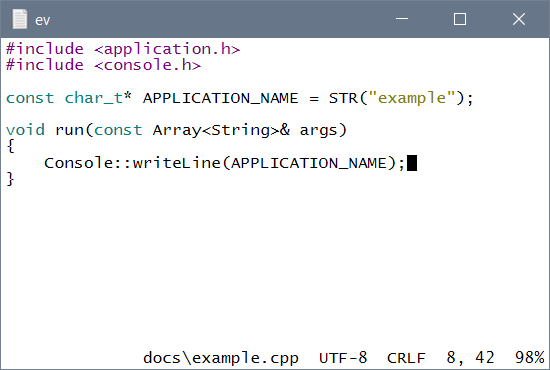
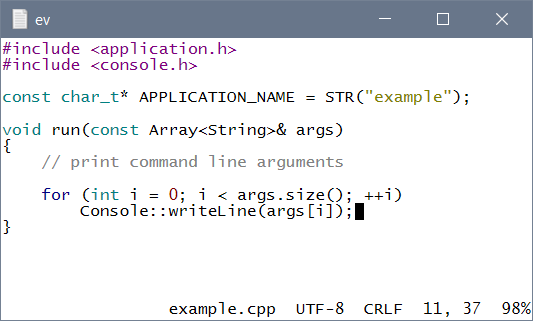
updated webpage, ranamed tab_size

diff --git a/docs/index.html b/docs/index.html
@@ -154,6 +154,24 @@ any character can be used as string separator instead of space</p>
 
 <p>o filename - open file</p>
 
+<h3>Configuration file</h3>
+
+<p>The editor reads a configuration file from two locations if it exists. The first location is the user's personal directory (/home/user or C:\Users\User). The second location is the current directory. Configuration settings from current directory take precedence. That allows you to specify project specific setting like build commands. The configuration file name is .ev.cfg on UNIX and ev.cfg on Windows. The format of the file is setting-name=setting-value, one setting per line.</p>
+
+<p>Supported settings:<table>
+<tr><td style="width: 120px">setting</td><td>values</td><td>defailt</td><td>descriptiom</td></tr>
+<tr><td>bright_background</td><td>true/false</td><td>true</td><td>changes color schme to look nice on terminals with dark or bright background</td></tr>
+<tr><td>trim_shitespace</td><td>true/false</td><td>true</td><td>trim trailing whitespace on save</td></tr>
+<tr><td>indent_size</td><td>number</td><td>4</td><td>number of spaces to indent lines</td></tr>
+<tr><td>gui_columns</td><td>number</td><td>120</td><td>number of columns in GUI mode<td></td></tr>
+<tr><td>gui_lines</td><td>number</td><td>60</td><td>number of lines in GUI mode<td></td></tr>
+<tr><td>gui_font_size</td><td>number</td><td>13</td><td>font size in GUI mode<td></td></tr>
+<tr><td>gui_font_name</td><td>string</td><td>platform specific</td><td>font name in GUI mode<td></td></tr>
+<tr><td>build_command</td><td>string</td><td>make</td><td>default build command<td></td></tr>
+<tr><td>run_command</td><td>string</td><td>make run</td><td>default run command<td></td></tr>
+<tr><td>clean_command</td><td>string</td><td>make clean</td><td>default clean command<td></td></tr>
+</table></p>
+
 <h3>Autocomplete</h3>
 
 <p>Autocomplete works by scanning for all identifiers in open documents and it lets you complete words as you type by pressing Tab key. The list of autocomplete suggestions can be refreshed by saving documents or by pressing alt+'. Completetion works best with at least two starting letters. When you press Tab the current suggestion is inserted into the text but the cursor remains after the last letter typed. If there're letters to the right of the cursor, the inserted word overwrites them.</p>
@@ -164,10 +182,11 @@ any character can be used as string separator instead of space</p>
 
 <h3>Syntax highlighting</h3>
 
-<p>Languages for which syntax highlighting is currently supported: C, C++, XML, HTML and UNIX shell scripts. ev by default assumes bright screen background and uses darker colors for syntax highlighting to improve contrast. To override this you can use --dark command line option.</p>
+<p>Languages for which syntax highlighting is currently supported: C, C++, XML, HTML and UNIX shell scripts. ev by default assumes bright screen background and uses darker colors for syntax highlighting to improve contrast. You can overridie that with bright_background setting in the configuration file.</p>
 
 <h3>Building the project</h3>
-<p>By default ev executes 'make' on UNIX systems and 'nmake.exe' on Windows. Makefile msut contain three targets named build, run and clean. This can be overriden by setting EV_BUILD_CMD, EV_RUN_CMD and EV_CLEAN_CMD environment variables.</p>
+
+<p>By default ev executes 'make' on UNIX systems and 'nmake.exe' on Windows. The makefile must contain a default target that builds the project and two targets to run and clean the project. This can be overriden by setting build commands in the configuration file.</p>
 
 <h3>License</h3>
 

diff --git a/editor.cpp b/editor.cpp
@@ -1572,7 +1572,7 @@ void Document::draw(int screenWidth, Buffer<ScreenCell>& screen, bool unicodeLim
                 if (ch == '\t')
                 {
                     ch = ' ';
-                    if (i == ((i - 1) / _editor->tabSize() + 1) * _editor->tabSize())
+                    if (i == ((i - 1) / _editor->indentSize() + 1) * _editor->indentSize())
                         p = _text.charForward(p);
                 }
                 else if (!ch || ch == '\n')
@@ -1656,7 +1656,7 @@ void Document::positionToLineColumn(int startPos, int startLine, int startColumn
             column = 1;
         }
         else if (ch == '\t')
-            column = ((column - 1) / _editor->tabSize() + 1) * _editor->tabSize() + 1;
+            column = ((column - 1) / _editor->indentSize() + 1) * _editor->indentSize() + 1;
         else
             ++column;
 
@@ -1709,7 +1709,7 @@ void Document::lineColumnToPosition(int startPos, int startLine, int startColumn
         if (ch == '\n')
             break;
         else if (ch == '\t')
-            column = ((column - 1) / _editor->tabSize() + 1) * _editor->tabSize() + 1;
+            column = ((column - 1) / _editor->indentSize() + 1) * _editor->indentSize() + 1;
         else
             ++column;
 
@@ -1979,7 +1979,7 @@ int Document::indentLine(int pos)
     while (ch == ' ' || ch == '\t')
     {
         if (ch == '\t')
-            n += _editor->tabSize() - (p - start) % _editor->tabSize();
+            n += _editor->indentSize() - (p - start) % _editor->indentSize();
         else
             ++n;
 
@@ -1987,7 +1987,7 @@ int Document::indentLine(int pos)
         ch = _text.charAt(p);
     }
 
-    n = (n / _editor->tabSize() + 1) * _editor->tabSize();
+    n = (n / _editor->indentSize() + 1) * _editor->indentSize();
     _text.erase(start, p - start);
     _text.insert(start, ' ', n);
 
@@ -2006,7 +2006,7 @@ int Document::unindentLine(int pos)
     while (ch == ' ' || ch == '\t')
     {
         if (ch == '\t')
-            n += _editor->tabSize() - (p - start) % _editor->tabSize();
+            n += _editor->indentSize() - (p - start) % _editor->indentSize();
         else
             ++n;
 
@@ -2016,7 +2016,7 @@ int Document::unindentLine(int pos)
 
     if (n > 0)
     {
-        n = (n - 1) / _editor->tabSize() * _editor->tabSize();
+        n = (n - 1) / _editor->indentSize() * _editor->indentSize();
         _text.erase(start, p - start);
         _text.insert(start, ' ', n);
 
@@ -3651,8 +3651,8 @@ void Editor::readConfigFile(const String& filename)
                     _brightBackground = value.compare(STR("true"), false) == 0;
                 else if (name == STR("trim_shitespace"))
                     _trimWhitespace = value.compare(STR("true"), false) == 0;
-                else if (name == STR("tab_size"))
-                    _tabSize = value.toInt();
+                else if (name == STR("indent_size"))
+                    _indentSize = value.toInt();
                 else if (name == STR("gui_columns"))
                     _width = value.toInt();
                 else if (name == STR("gui_lines"))

diff --git a/editor.h b/editor.h
@@ -405,9 +405,9 @@ public:
         return _trimWhitespace;
     }
 
-    int tabSize() const
+    int indentSize() const
     {
-        return _tabSize;
+        return _indentSize;
     }
 
     SyntaxHighlighter* syntaxHighlighter(DocumentType documentType);
@@ -490,7 +490,7 @@ protected:
 
     bool _brightBackground = true;
     bool _trimWhitespace = true;
-    int _tabSize = 4;
+    int _indentSize = 4;
     float _guiFontSize = 13;
     String _guiFontName = STR("Lucida Console");
 

diff --git a/example.cpp b/example.cpp
@@ -5,5 +5,8 @@ const char_t* APPLICATION_NAME = STR("example");
 
 void run(const Array<String>& args)
 {
-    Console::writeLine(APPLICATION_NAME);
+    // print command line arguments
+
+    for (int i = 0; i < args.size(); ++i)
+        Console::writeLine(args[i]);
 }
